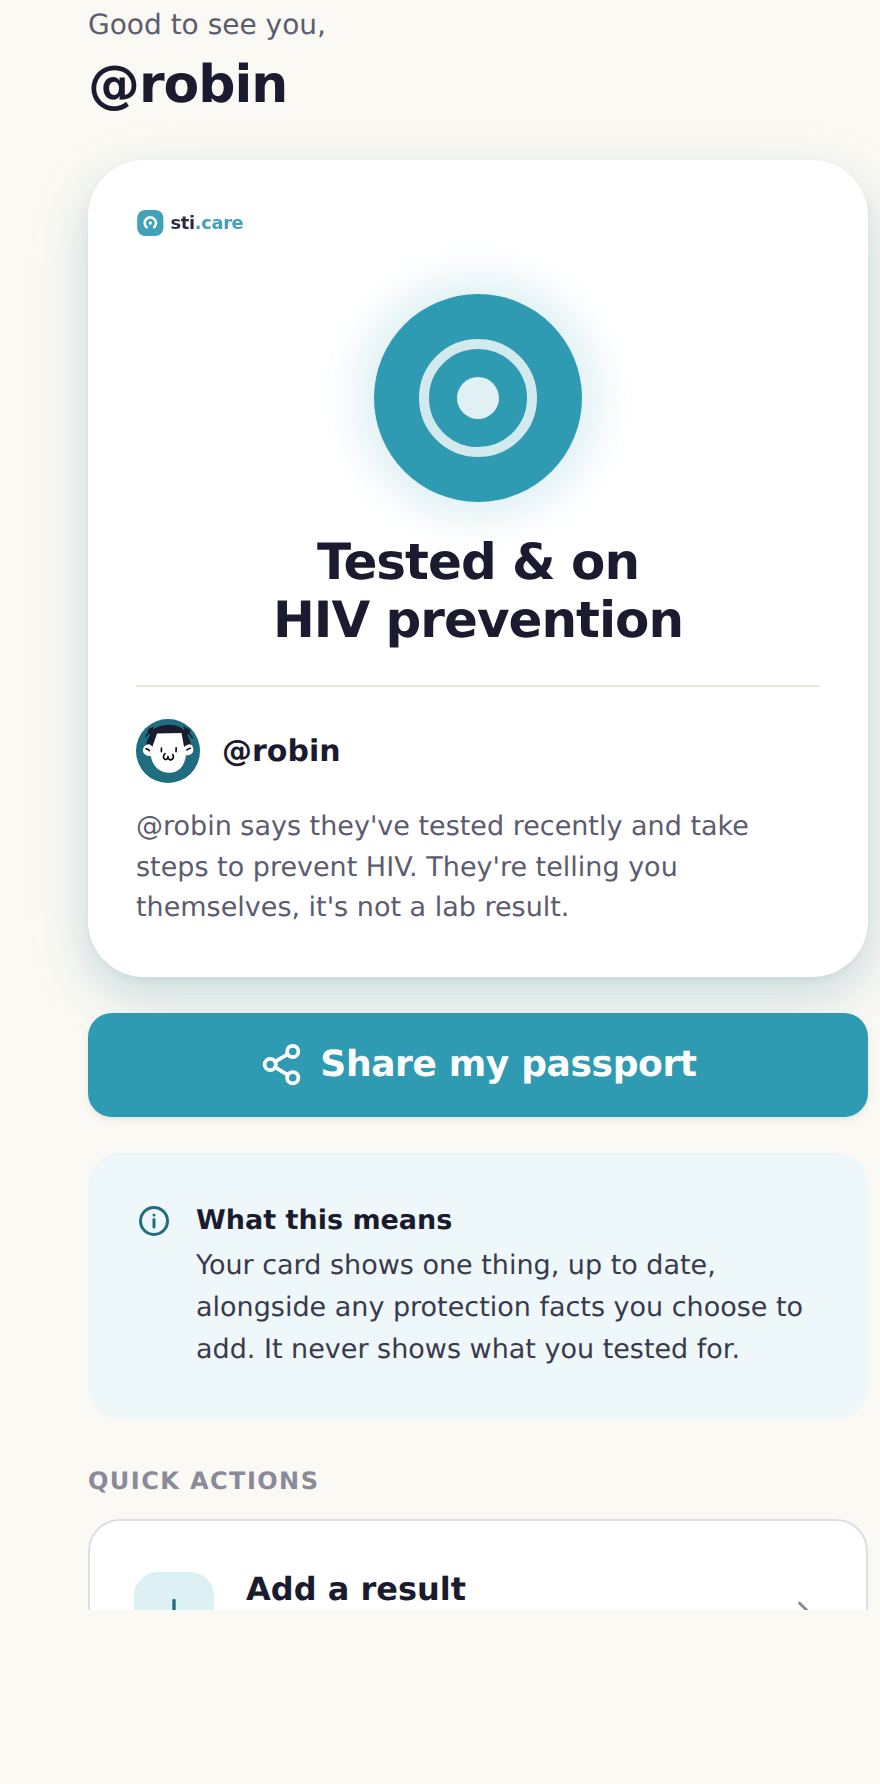
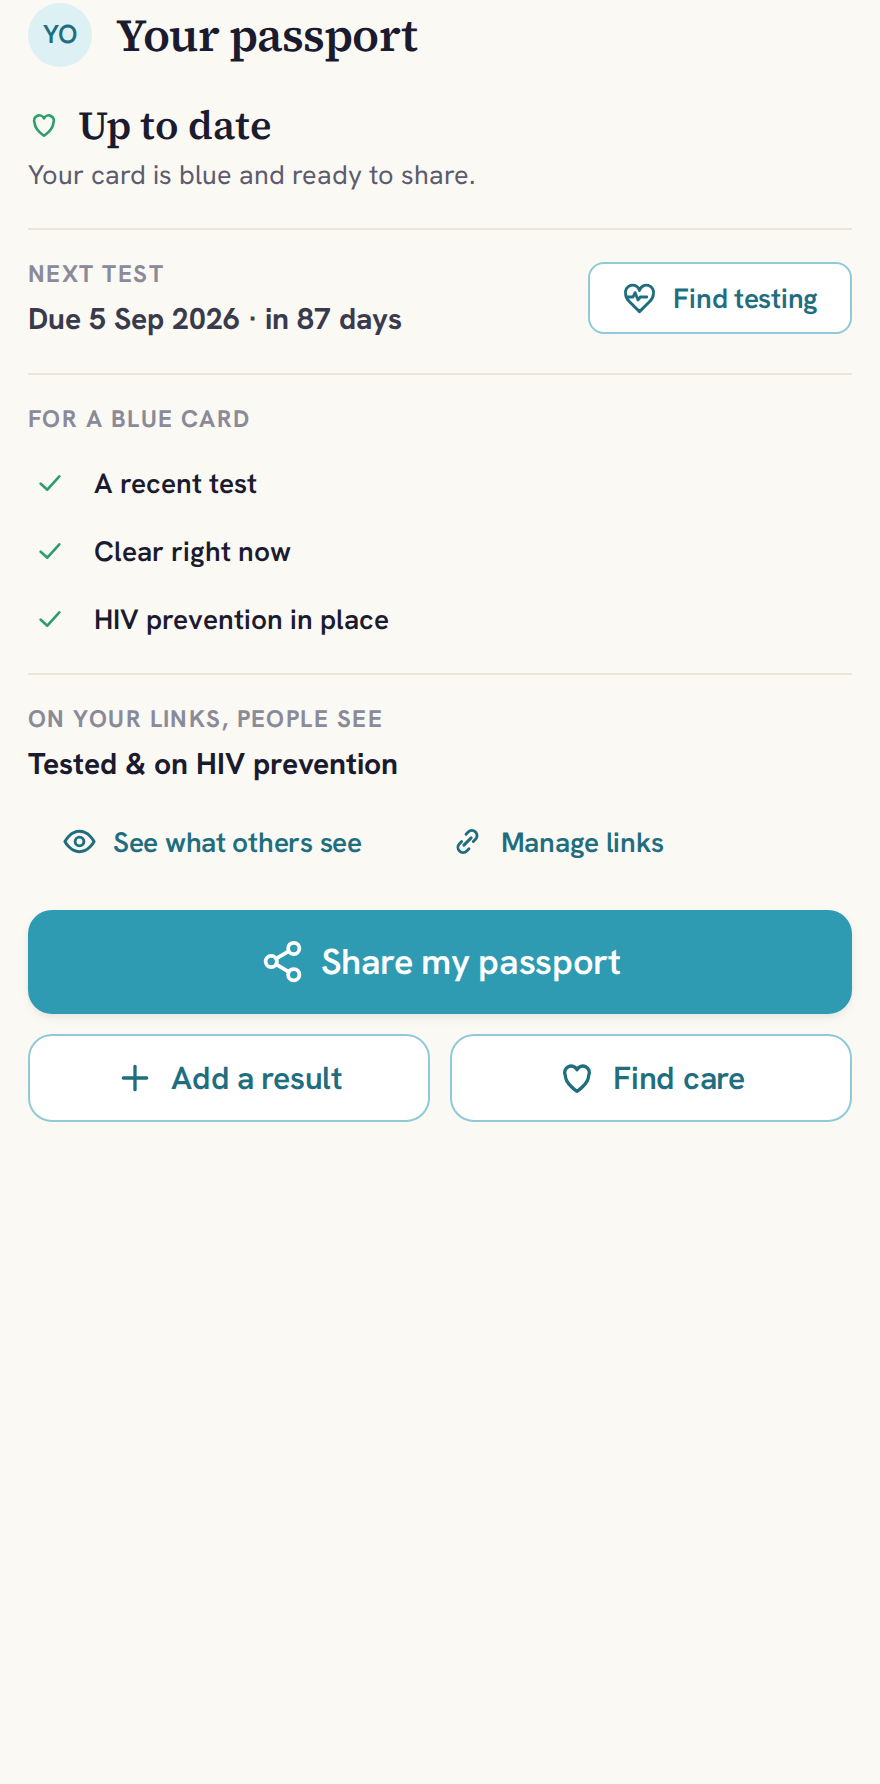
Editorial adoption closers: absolute style lint, PWA screenshot, docs round
The migration ratchet retires: style-lint-baseline.json is deleted and the
lint rules become absolute, with a short explicit allowlist for what a
class or token cannot express (data-driven sizes and colors, the wallet
pass depictions, QR paint, and Storybook fixture layout; hex stays banned
in stories outside the QR/PWA fixtures). Segmented is no longer counted as
a stranded surface: it stayed a sanctioned control, so the ban now covers
Card/Badge/Row only, outright.

The PWA install screenshot regenerates from its story so the manifest
image carries the editorial Home with the certificate badge frame.

Docs round: doc 37 flips to BUILT and describes the absolute lint, the
kept Segmented, the certificate artifact frame, and the finished labs/api
surfaces; doc 36's generalizes section now points at doc 37 as built.

Claude-Session: https://claude.ai/code/session_01HHNjiuqoNxWahGYmV5ii4L

diff --git a/labs/docs/37-app-editorial-adoption.md b/labs/docs/37-app-editorial-adoption.md
@@ -1,14 +1,14 @@
 # 37 - The app adopts the editorial language
 
-## Status: IN PROGRESS (the style architecture, self-hosted fonts, and the migration ratchet are built; the editorial grammar and the screen migrations land cluster by cluster)
+## Status: BUILT (every surface runs the language; the style lint is absolute)
 
-The passport app is moving onto the editorial design language that
+The passport app runs on the editorial design language that
 [36-info-design-language](36-info-design-language.md) built for info.sti.care.
 Doc 36 owns the language (type, surfaces, color, density, the one-primary-action
 rule); this doc owns the app-side mechanics: the style architecture, the
-migration rules, and the guardrails that keep the move one-directional. The
-same effort carries the language to the logged-out pages, the labs docs site,
-and the api landing page, so every surface reads as one product.
+absolute style-lint rules, and the sanctioned exceptions. The same effort
+carried the language to the logged-out pages, the labs docs site, and the api
+landing page, so every surface reads as one product.
 
 ## Style architecture
 
@@ -46,16 +46,17 @@ queries, one filled primary action per viewport. The app adds the decisions an
 interactive product needs:
 
 - **Card taxonomy.** Exactly three kinds of surface keep card-ness: the badge
-  card (the credential the product is about), the wallet passes (depictions of
-  physical objects), and overlays such as the share sheet (control surfaces
-  keep radius and elevation). Everything else is hairline-structured page.
-  Tinted cards, glow shadows, icon tiles, and pill chips retire from app
-  markup; their classes stay in the vendored CSS, unused.
+  card (the credential the product is about, on the `.e-artifact` certificate
+  frame: a double printed rule, flat, never a glow), the wallet passes
+  (depictions of physical objects), and overlays such as the share sheet
+  (control surfaces keep radius and elevation). Everything else is
+  hairline-structured page. Tinted cards, glow shadows, icon tiles, and pill
+  chips retired from app markup; their classes stay in the vendored CSS,
+  unused.
 - **Stranded design components.** From `design/components`, the app keeps
-  `Button`, `IconButton`, and the form controls. `Card`, `Badge`, `Row`, and
-  `Segmented` are stranded: never restyled, never wrapped; migrating screens
-  simply stop using them in favor of the `.e-*` grammar. The style lint
-  ratchets their usage down.
+  `Button`, `IconButton`, `Segmented` (a control surface), and the form
+  controls. `Card`, `Badge`, and `Row` are stranded: never restyled, never
+  wrapped; no screen uses them. The style lint bans them outright.
 - **Status vocabulary.** Status renders as the uppercase word plus the heart
   glyph in a derived AA-safe ink (info's StatusLabel), never a colored pill,
   and never color alone.
@@ -68,38 +69,35 @@ interactive product needs:
   lint enforces the CSS half: no viewport `@media` beyond the 900px chrome
   breakpoint.
 
-## The migration ratchet
+## The style lint
 
-The legacy styling (inline `style` props referencing tokens) cannot be banned
-in one step, so `passport/scripts/style-lint.mjs` enforces a one-way ratchet
-against `scripts/style-lint-baseline.json`, a per-file snapshot of three
-counts: inline style blocks, raw hex colors, and stranded surface components.
-Above the baseline fails as a new violation; below it fails too, telling you
-to run `npm run lint:styles -- --write`, which records the improvement and
-refuses to record a regression. The baseline shrinking to nothing is the
-definition of done; then the rules are absolute, exactly like info's lint.
-The `@media` rule is absolute from day one.
+`passport/scripts/style-lint.mjs` enforces the language absolutely (the
+migration burn-down ratchet it started as is retired): no inline `style={}`
+blocks, no raw hex outside `styles/theme.css`, no stranded surface components
+(`Card`/`Badge`/`Row`), and no viewport `@media` beyond the 900px chrome
+breakpoint. A short explicit allowlist in the script covers what a class or
+token cannot express: data-driven inline values (medallion and pass sizes,
+avatar swatch colors, QR geometry, NavLink's style passthrough), the wallet
+pass depictions with their platforms' own colors, QR/PNG paint colors, and
+Storybook fixture layout (`*.stories.tsx`, inline styles only; hex stays
+banned there too). An allowlist entry needs a reason of that kind; everything
+else is a lint failure.
 
-Migration rules per change:
-
-- **Whole screens only.** A screen is either fully editorial or fully legacy;
-  a half-migrated screen never ships. Cross-screen inconsistency while the
-  effort runs is accepted and expected; the baseline file is the public
-  burn-down.
-- Stories update with their screen, and baselines regenerate through the
-  `screenshot:update` label in the same change.
-- Copy touched along the way is held to the voice guide.
+Rules that still hold for any styling change: stories update with their
+screen, baselines regenerate through the `screenshot:update` label in the
+same change, and copy touched along the way is held to the voice guide.
 
 ## Surfaces beyond the app
 
-- **info.sti.care** already runs the language (doc 36) and shares the fonts
-  and the passport barrel.
-- **labs.sti.care** consolidates onto it: the standalone sticker aesthetic
-  retires, its stylesheet derives from the passport tokens at build time, and
-  its published content gets refreshed in the same effort (owned here, built
-  in the labs deploy scripts).
+- **info.sti.care** runs the language (doc 36) and shares the fonts and the
+  passport barrel.
+- **labs.sti.care** runs it too: its deployed stylesheet is assembled at build
+  time from the passport design tokens plus two authored sheets
+  (`labs/labs-theme.css`, `labs/labs-site.css`), and it self-hosts the same
+  font files the passport serves.
 - **The api landing page** (`server/internal/server/landing.html`) stays a
-  standalone Go-served file and simply adopts the real token values.
+  standalone Go-served file on the real token values (hex with token-name
+  comments, system fonts only).
 
 ## What stays out of scope
 

diff --git a/labs/docs/36-info-design-language.md b/labs/docs/36-info-design-language.md
@@ -128,10 +128,11 @@ adopting the language elsewhere.
 
 ## What generalizes to the app, and what stays info-only
 
-Generalizes: the cascade-layer architecture over the shared tokens, the serif
-display voice, ink-forward color rules and derived AA status inks, hairline
-surface grammar, the container-query policy, the one-primary-action rule, and
-the style-lint guardrails. Info-only: the 66ch article measure and prose
-styles, the facts strip, and the publication templates; the app's interactive
-screens keep the card and control grammar of `passport/src/design` until the
-adoption effort defines their editorial equivalents.
+Generalized (built, owned by
+[37-app-editorial-adoption](37-app-editorial-adoption.md)): the cascade-layer
+architecture over the shared tokens, the serif display voice, ink-forward
+color rules and derived AA status inks, hairline surface grammar, the
+container-query policy, the one-primary-action rule, and the style-lint
+guardrails; the app's editorial equivalents of cards and rows are its `.e-*`
+grammar. Info-only: the 66ch article measure and prose styles, the facts
+strip, and the publication templates.
